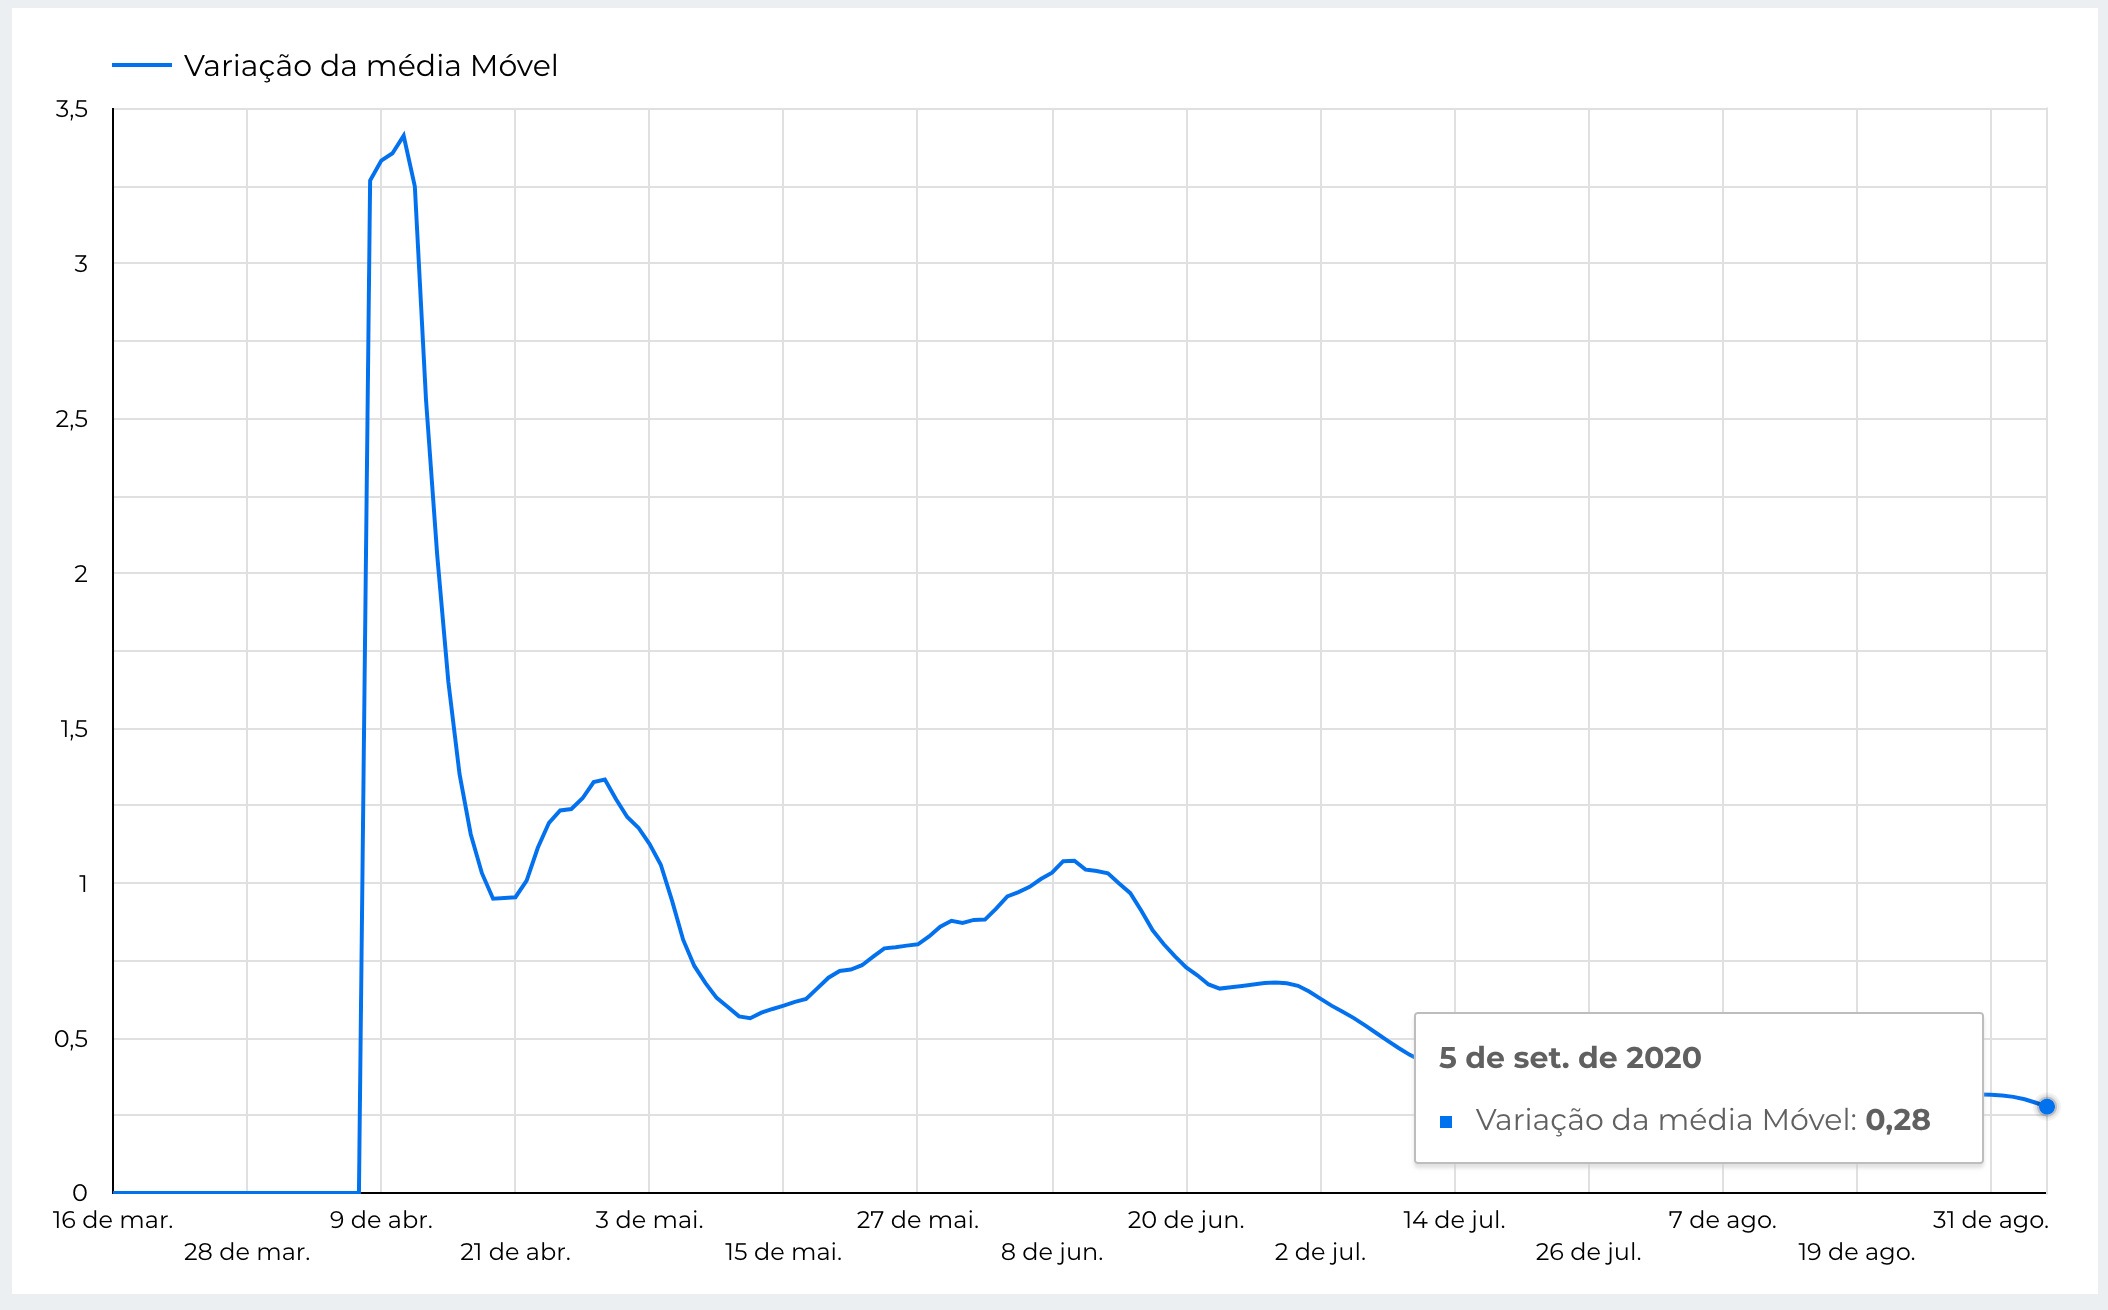
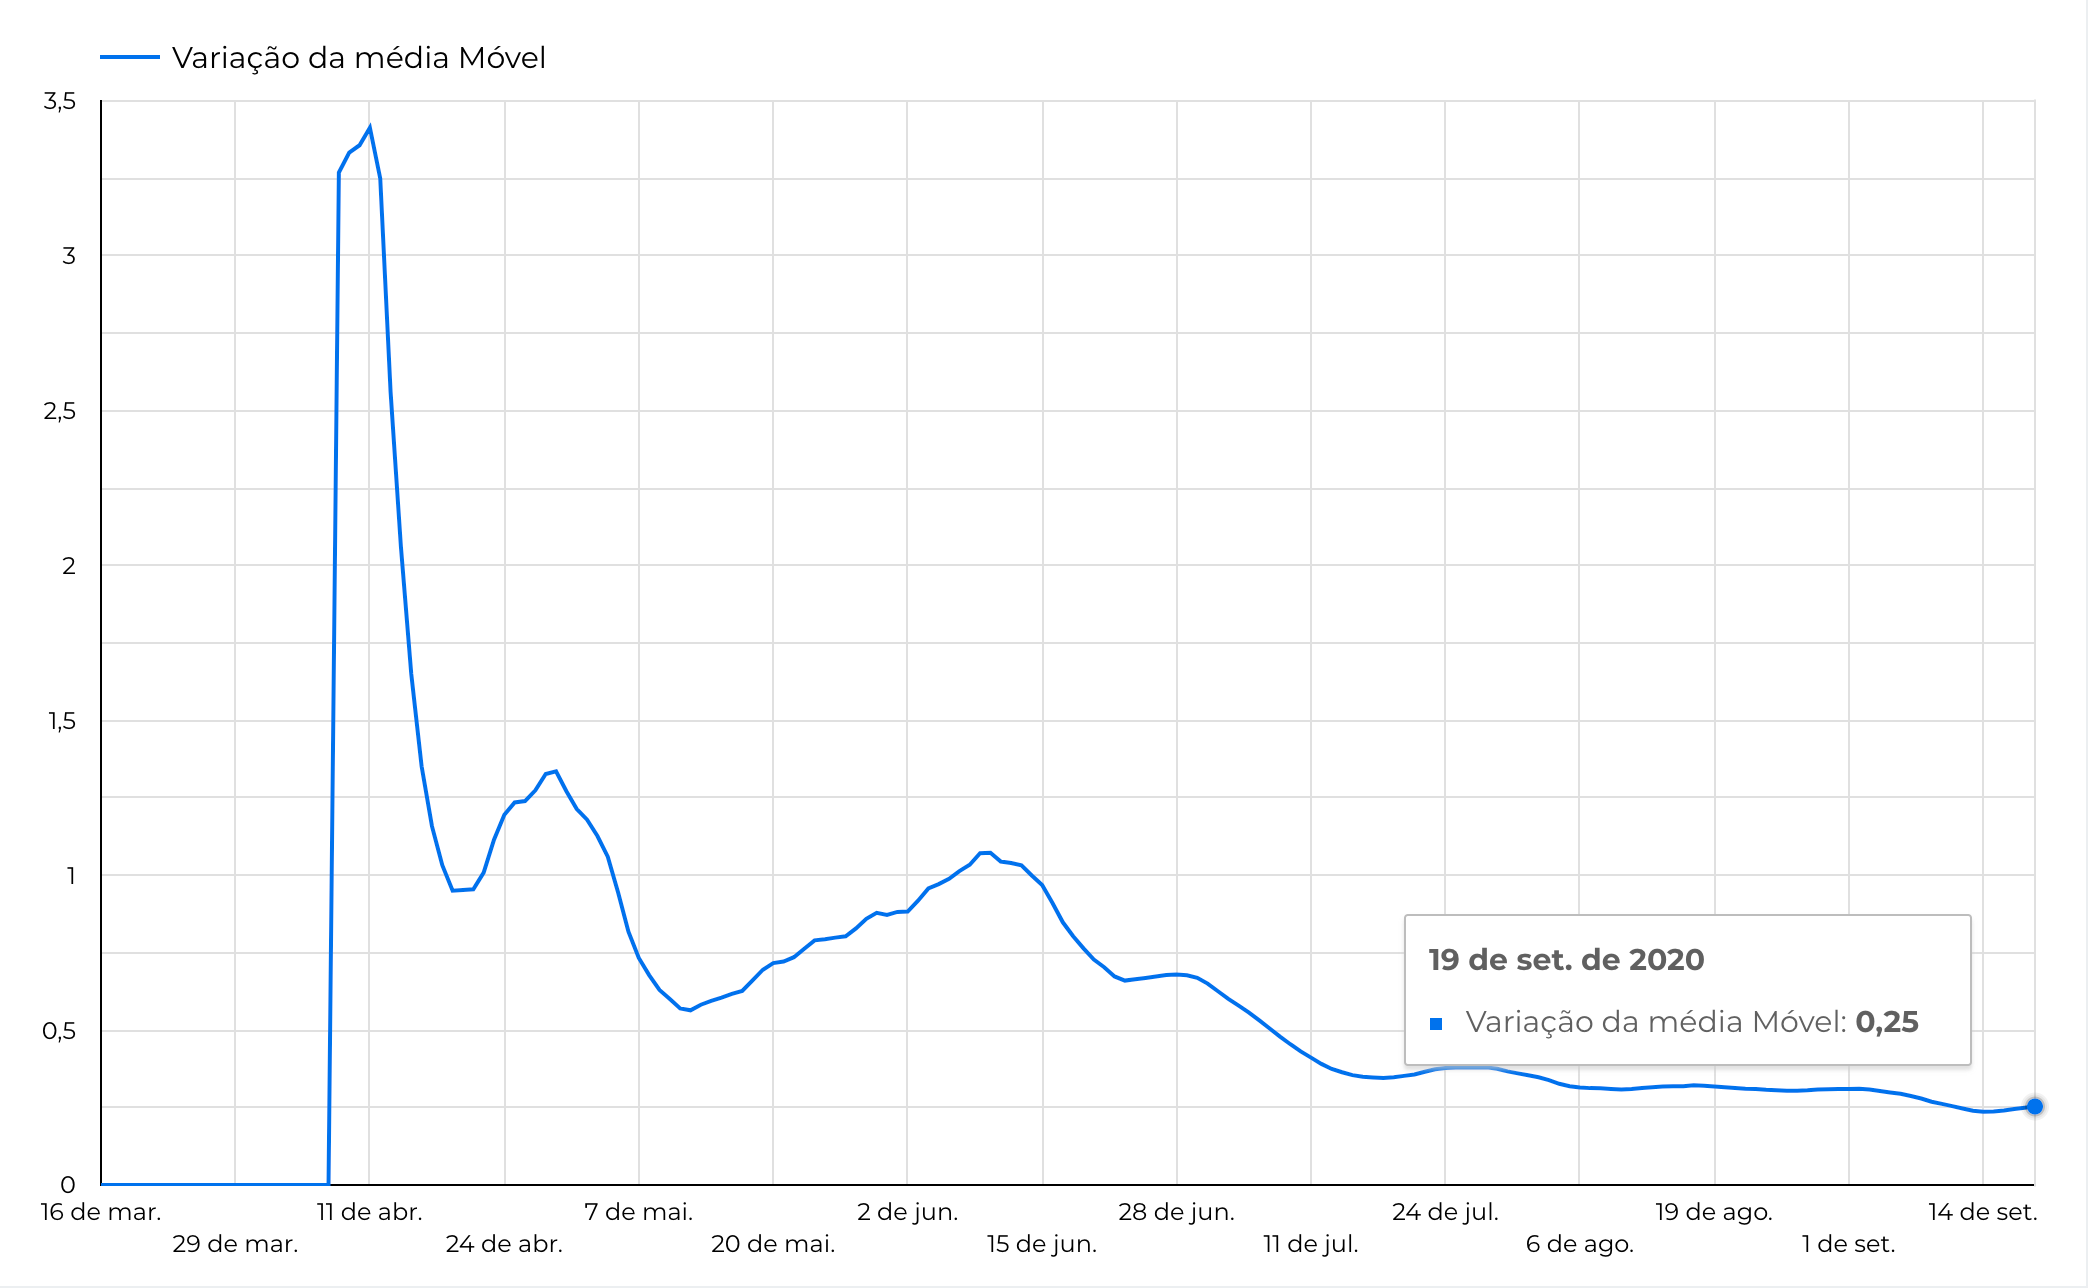
Atualizacao dos dados

diff --git a/index.html b/index.html
@@ -147,8 +147,8 @@
 
         <p class="text-justify mt-3">
             <ul>
-            <li>No dia de hoje (05/09/2020), acumulamos 3734 casos notificados.</li>
-            <li>Projeção para dia 10 de setembro é de 3951 podendo chegar até 4256 casos notificados, como indicado pela faixa cinza.</li>
+            <li>No dia de hoje (19/09/2020), acumulamos 4728 casos notificados.</li>
+            <li>Projeção para dia 24 de setembro é de 5228 podendo chegar até 5586 casos notificados, como indicado pela faixa cinza.</li>
             <li>Pontos pretos: número de casos confirmados a cada dia.</li>
             <li>Pontos laranjas: a previsão para os próximos 5 dias.</li>
             </ul>
@@ -176,7 +176,7 @@
         </div>
 
         <p class="text-justify mt-3">
-        Todos os dados foram obtidos da própria Secretária Municipal de Saúde de Uberaba até o dia 05 de setembro de 2020.
+        Todos os dados foram obtidos da própria Secretária Municipal de Saúde de Uberaba até o dia 19 de setembro de 2020.
         </p>
 
 <!--        <a href="https://datastudio.google.com/reporting/1CX1pHjDrbb7X1gEIeVY1sxQp8PziWgpN/page/g6OUB?s=hWFHXQaeMZY" target="_blank">
@@ -193,7 +193,7 @@
         <p class="text-justify mt-3"> Figura 2: Indicadores dos casos de Covid-19 em Uberaba. Clique na imagem para ver o gráfico interativo </p>
 
         <p class="text-justify mt-3">
-        Os gráficos da Figura 2 apresentam um panorama geral da evolução da covid-19 na cidade de Uberaba. No dia 05/09/2020 a cidade apresenta 3734 casos notificados confirmados dos quais 82% são considerados recuperados.
+        Os gráficos da Figura 2 apresentam um panorama geral da evolução da covid-19 na cidade de Uberaba. No dia 19/09/2020 a cidade apresenta 4728 casos notificados confirmados dos quais 91% são considerados recuperados.
         </p>
 
         <div class="media-body">
@@ -208,7 +208,7 @@
         </p>
 
         <p class="text-justify mt-3">
-        A Figura 3, apresenta a média móvel dos casos confirmados considerando um intervalo de sete dias. A média móvel dos casos confirmados em Uberaba no dia 05/09 é de 3631.
+        A Figura 3, apresenta a média móvel dos casos confirmados considerando um intervalo de sete dias. A média móvel dos casos confirmados em Uberaba no dia 19/09 é de 4489.
         </p>
 
         <a href="https://datastudio.google.com/reporting/1eNQdQv-rpu3yne8bvqD71-j8gS44fYts/page/sLUUB?s=sfL5MYwUyi4" target="_blank">
@@ -222,7 +222,7 @@
         </p>
 
         <p class="text-justify mt-3">
-       A Figura 4 apresenta a curva de casos ativos ao longo do tempo junto com a média móvel considerando intervalos de sete dias. A média móvel de casos ativos da covid-19 no dia 05/09 é de 562.
+       A Figura 4 apresenta a curva de casos ativos ao longo do tempo junto com a média móvel considerando intervalos de sete dias. A média móvel de casos ativos da covid-19 no dia 19/09 é de 393.
         </p>
 
         <a href="https://datastudio.google.com/reporting/1eNQdQv-rpu3yne8bvqD71-j8gS44fYts/page/sLUUB?s=sfL5MYwUyi4" target="_blank">
@@ -272,7 +272,7 @@
         <p class="text-justify mt-3"> Figura 6: Novos casos diários confirmados e média móvel </p>
 
         <p class="text-justify mt-3">
-        A Figura 7  apresenta a evolução da variação da média móvel dos novos casos diários. No dia 05/09 a variação é de -31%, nesse momento, indica situação de queda, de acordo com os parâmetros usados pelos especialistas.
+        A Figura 7  apresenta a evolução da variação da média móvel dos novos casos diários. No dia 19/09 a variação é de -26%, nesse momento, indica situação de queda, de acordo com os parâmetros usados pelos especialistas.
         </p>
 
 
@@ -289,15 +289,15 @@
         Duas taxas dão importantes quando precisa entender o número de óbitos de uma doença,  a taxa de letalidade e a taxa de mortalidade. A letalidade é uma taxa que compara o número de óbitos com a quantidade de pessoas infectadas pela doença. A mortalidade é um índice obtido por uma relação dos óbitos por uma causa específica em um determinado período de tempo para cada 100.000 habitantes da área analisada.
 
         <p class="text-justify mt-3">
-        <li> A <b> taxa de letalidade </b> é calculada como o número total de óbitos dividido pelo número total de casos confirmados. Hoje, a taxa de letalidade de Uberaba é de 2,76%. Isso significa que a cada 100 pessoas que tem o dignóstico confirmado de covid-19, 2,76 dessas pessoas podem vir a óbito.</li>
+        <li> A <b> taxa de letalidade </b> é calculada como o número total de óbitos dividido pelo número total de casos confirmados. Hoje, a taxa de letalidade de Uberaba é de 2,65%. Isso significa que a cada 100 pessoas que tem o dignóstico confirmado de covid-19, 2,65 dessas pessoas podem vir a óbito.</li>
         </p>
 
         <p class="text-justify mt-3">
-        <li>A <b>taxa de mortalidade </b> é calculada considerando o número de óbitos pelo número total da população de Uberaba vezes 100 mil. No dia 05/09/2020 a taxa de mortalidade é de 30,03/100mil habitantes. Isso significa que a cada 100 mil pessoas de Uberaba, 30,03 delas podem vir a óbito por causa da covid-19.</li>
+        <li>A <b>taxa de mortalidade </b> é calculada considerando o número de óbitos pelo número total da população de Uberaba vezes 100 mil. No dia 19/09/2020 a taxa de mortalidade é de 37,01/100mil habitantes. Isso significa que a cada 100 mil pessoas de Uberaba, 37,01 delas podem vir a óbito por causa da covid-19.</li>
         </p>
 
         <p class="text-justify mt-3">
-        O gráfico da Figura 8 apresenta a evolução do número de óbitos com a média móvel e também a variação dessa média. A variação da média móvel do número de óbitos é de 30%.
+        O gráfico da Figura 8 apresenta a evolução do número de óbitos com a média móvel e também a variação dessa média. A variação da média móvel do número de óbitos é de 20%.
         </p>
 
         <a href="https://datastudio.google.com/reporting/1eNQdQv-rpu3yne8bvqD71-j8gS44fYts/page/sLUUB?s=sfL5MYwUyi4" target="_blank">
@@ -323,7 +323,7 @@
 
         <!--CARD.TEXT -->
         <p class="text-justify mt-3">
-          O número Reprodutivo efetivo (Rt) é a média de pessoas contaminadas por um infectado. Valores maiores que 1 indicam que o número de novos casos está aumentando. Valores próximos de um indicam um número constante de casos a cada dia. Apenas valores de Rt abaixo de um por muitos dias indicam tendência de redução no número de casos
+          O número Reprodutivo efetivo (Rt) é a média de pessoas contaminadas por um infectado. Valores maiores que 1 indicam que o número de novos casos está aumentando. Valores próximos de um indicam um número constante de casos a cada dia. Apenas valores de Rt abaixo de um por muitos dias indicam tendência de redução no número de casos. A média do Rt dos últimos sete dias é de 1,09.
         </p>
         <img src="./web/municipios/MG/Uberaba/taxaRt.png" class="img-fluid" style="max-height:600px;" alt="Gŕafico mostrando o número de casos acumulados na cidade de Uberaba.">
         <p class="text-center mt-3">
